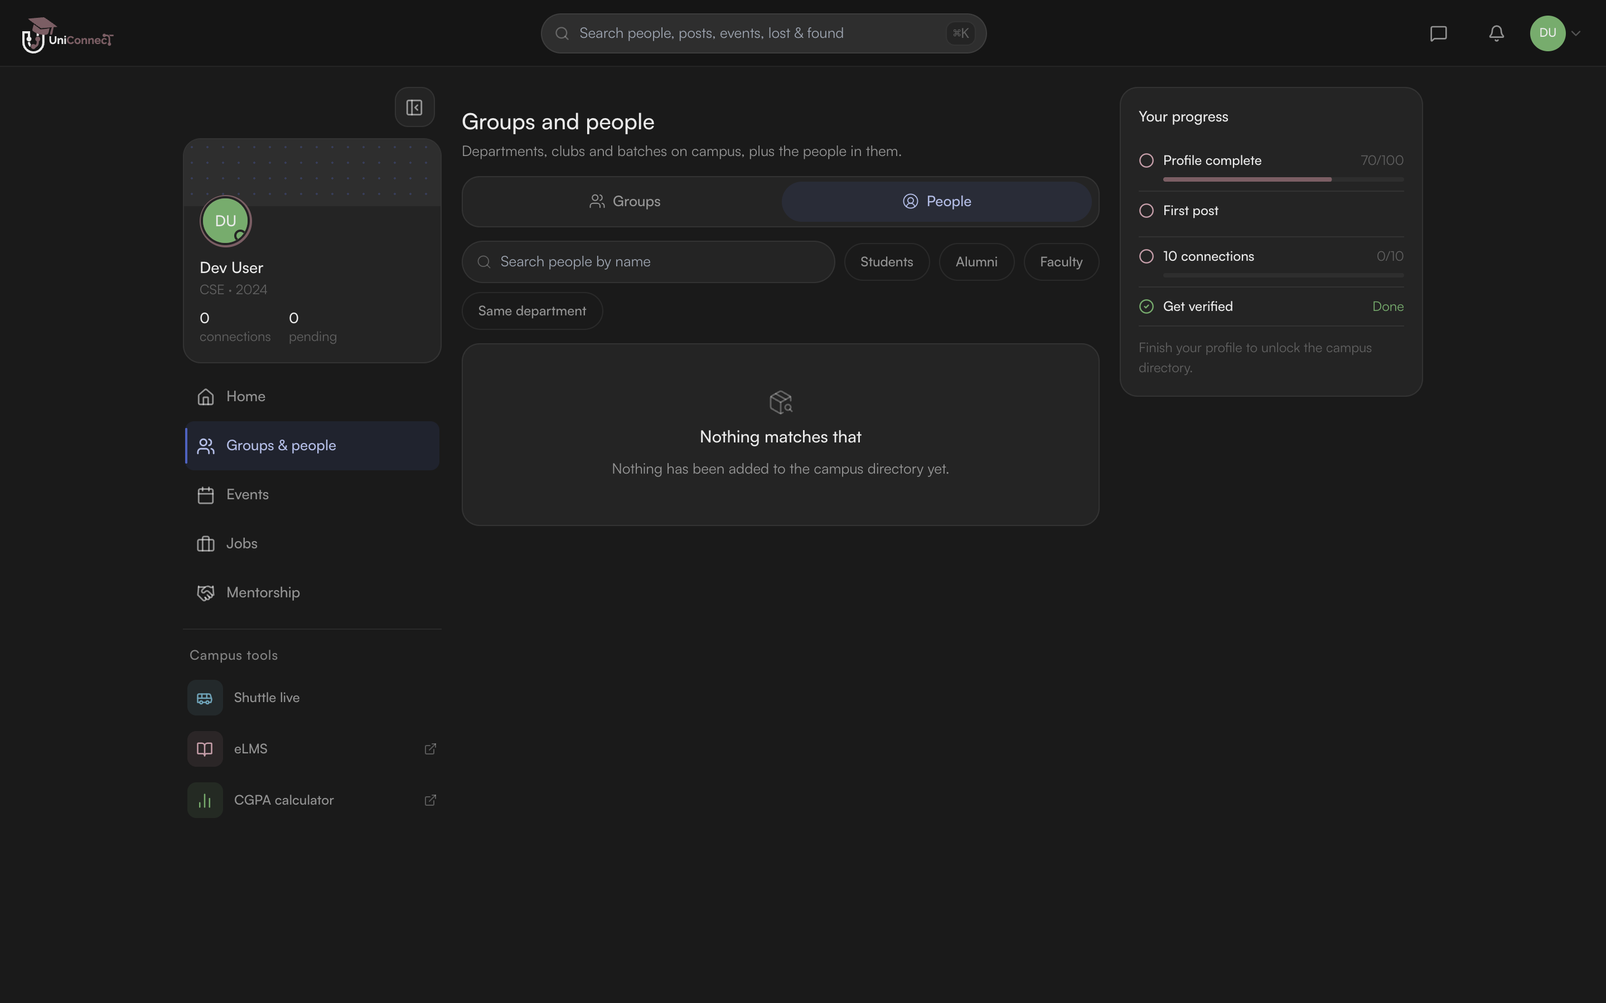
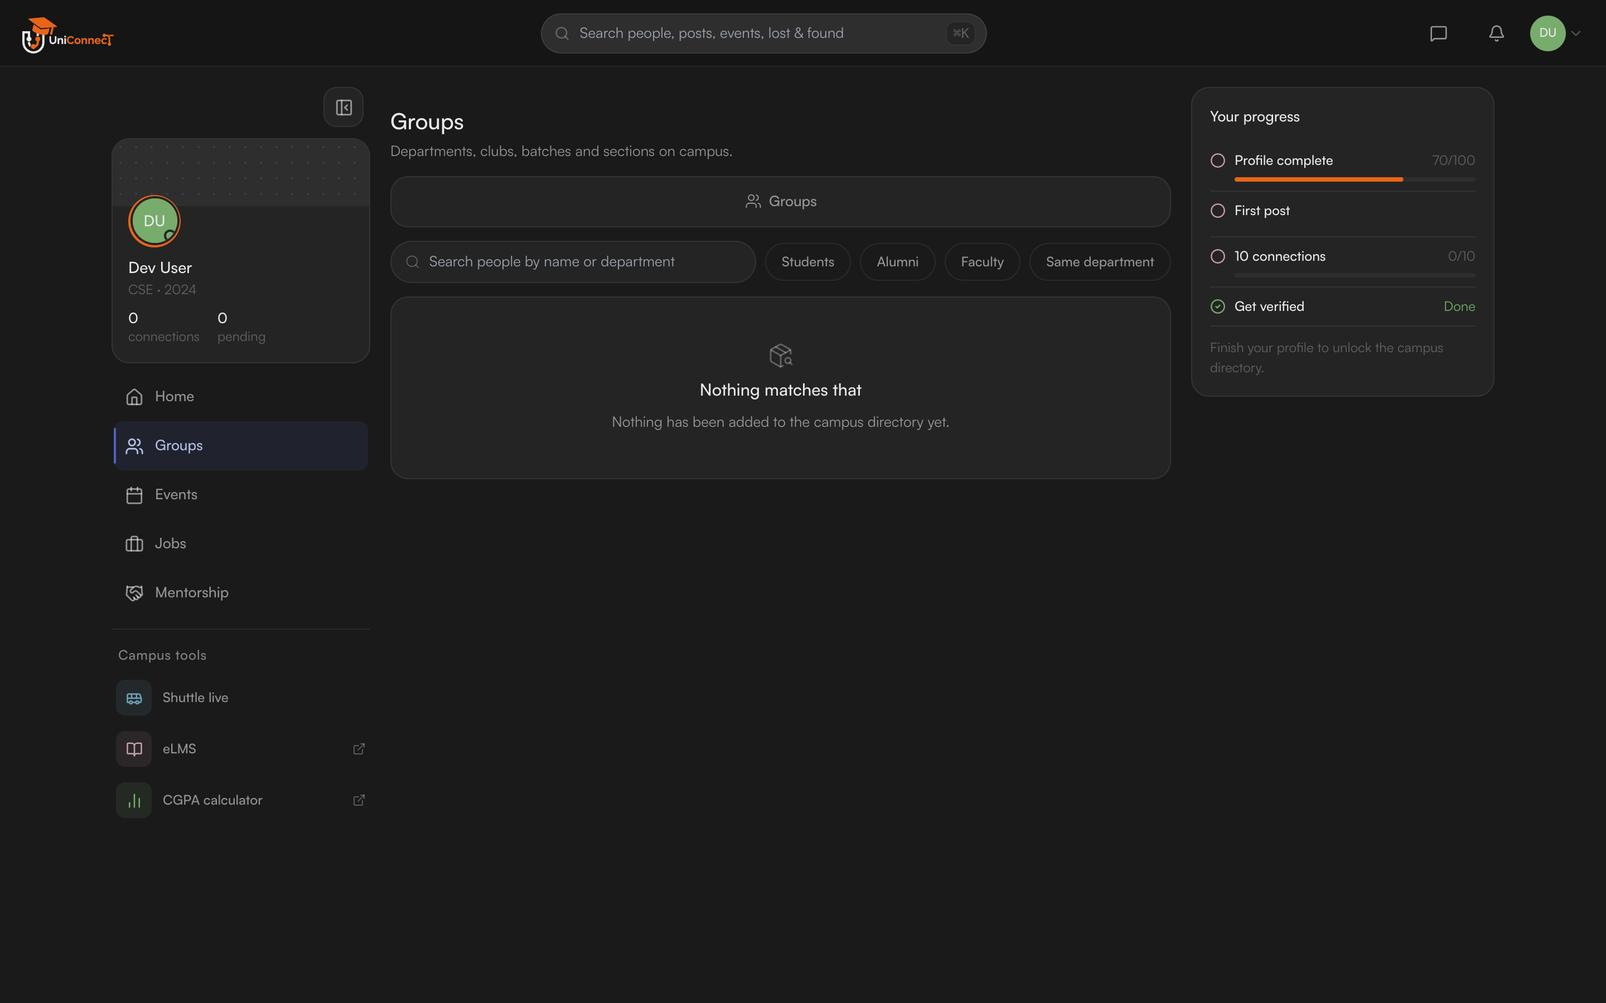
Fixed some unnecessary bugs

diff --git a/apps/web/src/pages/GroupsPage.tsx b/apps/web/src/pages/GroupsPage.tsx
@@ -1,7 +1,7 @@
 import { useEffect, useMemo, useRef, useState } from 'react'
 import { useSearchParams } from 'react-router-dom'
 import { useInfiniteQuery } from '@tanstack/react-query'
-import { PackageSearch, Plus, Search, UserCircle2, Users } from 'lucide-react'
+import { PackageSearch, Plus, Search, Users } from 'lucide-react'
 import type { LucideIcon } from 'lucide-react'
 import type { UserRole } from '@uniconnect/shared'
 import { api } from '@/lib/axios'
@@ -10,7 +10,7 @@ import type { Group, GroupType } from '@/features/groups'
 import { PeopleDirectory, type PeopleDirectoryFilters } from '@/features/connections'
 import { useAuthStore } from '@/stores/authStore'
 
-type Section = 'groups' | 'people' | 'sections'
+type Section = 'groups' | 'people'
 
 interface GroupsResponse {
   items: Group[]
@@ -66,31 +66,20 @@ const PEOPLE_FILTERS: PeopleFilter[] = [
 export default function GroupsPage() {
   const [searchParams, setSearchParams] = useSearchParams()
 
-  // Faculty teach sections, so academic groups are the unit of navigation for them and
-  // get their own tab — it is what the rail's "My sections" row points at. Nobody else
-  // sees it: academic groups are faculty-created, so the tab would be empty elsewhere.
-  const isFaculty = useAuthStore((s) => s.user?.role) === 'faculty'
-  const defaultSection: Section = isFaculty ? 'sections' : 'groups'
+  const defaultSection: Section = 'groups'
 
   // `University` is optional on `User` (not populated by the auth/me responses
   // yet) — falls back to generic campus copy rather than hardcoding a tenant name.
   const universityName = useAuthStore((s) => s.user?.university?.name)
   const subtitleTenant = universityName ? `at ${universityName}` : 'on campus'
 
-  // The rail row is "Groups & people", so connections fold in here as a section.
-  // `/connections` stays routable for deep links and for the avatar menu.
+  // The people directory has no tab of its own — the strip is Groups only — but it
+  // still answers `?section=people` so the "find people" links in the invite panel and
+  // the create-group modal keep landing on it. `/connections` stays routable too.
   const rawSection = searchParams.get('section')
-  const section: Section =
-    rawSection === 'people'
-      ? 'people'
-      : rawSection === 'sections' && isFaculty
-      ? 'sections'
-      : rawSection === 'groups'
-      ? 'groups'
-      : defaultSection
+  const section: Section = rawSection === 'people' ? 'people' : defaultSection
 
   const isPeople = section === 'people'
-  const isSections = section === 'sections'
 
   function setSection(next: Section) {
     const params = new URLSearchParams(searchParams)
@@ -134,9 +123,7 @@ export default function GroupsPage() {
 
   const sentinelRef = useRef<HTMLDivElement>(null)
 
-  // The sections view is the academic slice, so the type filter is fixed there rather
-  // than offered — a "Clubs" chip inside "My sections" would contradict the tab itself.
-  const requestType: GroupType | undefined = isSections ? 'academic' : groupFilter?.type
+  const requestType: GroupType | undefined = groupFilter?.type
 
   const { data, fetchNextPage, hasNextPage, isFetchingNextPage, isLoading } = useInfiniteQuery<GroupsResponse>({
     queryKey: ['groups', 'list', { type: requestType ?? 'all', search: debounced }],
@@ -236,9 +223,7 @@ export default function GroupsPage() {
   }
 
   const views: { key: Section; label: string; icon: LucideIcon; count?: number }[] = [
-    ...(isFaculty ? [{ key: 'sections' as Section, label: 'My sections', icon: Users }] : []),
     { key: 'groups', label: 'Groups', icon: Users, count: isPeople ? undefined : groupTotal },
-    { key: 'people', label: 'People', icon: UserCircle2 },
   ]
 
   const emptyState = (
@@ -254,10 +239,10 @@ export default function GroupsPage() {
     <div style={{ display: 'flex', flexDirection: 'column', gap: 12 }}>
       <header style={{ display: 'flex', flexDirection: 'column', gap: 4 }}>
         <h1 style={{ margin: 0, fontSize: 20, fontWeight: 500, color: 'var(--text-primary)', lineHeight: 1.3 }}>
-          Groups and people
+          Groups
         </h1>
         <p style={{ margin: 0, fontSize: 13, fontWeight: 400, color: 'var(--text-secondary)', lineHeight: 1.5 }}>
-          Departments, clubs and batches {subtitleTenant}, plus the people in them.
+          Departments, clubs, batches and sections {subtitleTenant}.
         </p>
       </header>
 
@@ -388,9 +373,7 @@ export default function GroupsPage() {
           />
         </div>
 
-        {/* Sections is already type-pinned to academic, so type chips there would lie. */}
-        {!isSections &&
-          activeFilters.map((f) => {
+        {activeFilters.map((f) => {
             const active = activeFilter?.label === f.label
             return (
               <button

diff --git a/apps/web/src/pages/sectionTabs.test.tsx b/apps/web/src/pages/sectionTabs.test.tsx
@@ -84,16 +84,16 @@ function renderPage(ui: React.ReactElement, route: string) {
 }
 
 describe('GroupsPage people section', () => {
-  it('shows groups by default and folds the people directory in behind a People tab', async () => {
-    const user = userEvent.setup()
+  it('offers a single Groups tab — the people directory has no tab of its own', () => {
     renderPage(<GroupsPage />, '/groups')
 
+    expect(screen.getByRole('button', { name: /^Groups/ })).toHaveAttribute('aria-current', 'page')
+    expect(screen.queryByRole('button', { name: 'People' })).not.toBeInTheDocument()
     expect(screen.queryByText('people directory')).not.toBeInTheDocument()
-
-    await user.click(screen.getByRole('button', { name: 'People' }))
-    expect(screen.getByText('people directory')).toBeInTheDocument()
   })
 
+  // The invite panel and create-group modal still link here, so the deep link must
+  // keep landing on the directory even though no tab leads to it.
   it('honours a deep link to the people section', () => {
     renderPage(<GroupsPage />, '/groups?section=people')
     expect(screen.getByText('people directory')).toBeInTheDocument()
@@ -108,8 +108,7 @@ describe('GroupsPage people section', () => {
     await user.click(screen.getByRole('button', { name: 'Clubs' }))
     expect(screen.getByRole('button', { name: 'Clubs' })).toHaveAttribute('aria-pressed', 'true')
 
-    await user.click(screen.getByRole('button', { name: 'People' }))
-    expect(screen.queryByRole('button', { name: 'Clubs' })).not.toBeInTheDocument()
+    renderPage(<GroupsPage />, '/groups?section=people')
     expect(screen.getByRole('button', { name: 'Alumni' })).toHaveAttribute('aria-pressed', 'false')
   })
 
@@ -173,47 +172,15 @@ describe('ExplorePage lost & found section', () => {
   })
 })
 
-describe('GroupsPage faculty sections view', () => {
-  it('lands faculty on My sections, since sections are their unit of navigation', async () => {
+describe('GroupsPage for faculty', () => {
+  // Faculty used to land on a separate "My sections" view; academic groups now sit in
+  // the one Groups list behind the "Sections" chip, so faculty gets the same page.
+  it('lands faculty on the same Groups view as everyone else', async () => {
     currentRole = 'faculty'
-    renderPage(<GroupsPage />, '/groups')
-
-    expect(await screen.findByRole('button', { name: 'My sections' })).toHaveAttribute(
-      'aria-current',
-      'page',
-    )
-  })
-
-  it('fetches only academic groups in the sections view', async () => {
-    currentRole = 'faculty'
-    renderPage(<GroupsPage />, '/groups')
-
-    await waitFor(() => expect(groupsGet).toHaveBeenCalled())
-    expect(requestedType()).toBe('academic')
-  })
-
-  it('hides the group-type chips there, which would contradict the tab', async () => {
-    currentRole = 'faculty'
-    renderPage(<GroupsPage />, '/groups')
-
-    await screen.findByRole('button', { name: 'My sections' })
-    expect(screen.queryByRole('button', { name: 'Clubs' })).not.toBeInTheDocument()
-  })
-
-  it('restores the type chips once faculty switches to all groups', async () => {
-    const user = userEvent.setup()
-    currentRole = 'faculty'
-    renderPage(<GroupsPage />, '/groups')
-
-    await user.click(await screen.findByRole('button', { name: /^Groups/ }))
-    expect(screen.getByRole('button', { name: 'Clubs' })).toBeInTheDocument()
-  })
-
-  it('gives no other role the sections tab, and ignores the param for them', async () => {
-    currentRole = 'student'
     renderPage(<GroupsPage />, '/groups?section=sections')
 
     expect(screen.queryByRole('button', { name: 'My sections' })).not.toBeInTheDocument()
+    expect(screen.getByRole('button', { name: 'Sections' })).toBeInTheDocument()
     await waitFor(() => expect(groupsGet).toHaveBeenCalled())
     expect(requestedType()).toBeNull()
   })

diff --git a/apps/web/src/components/leftSidebar.config.ts b/apps/web/src/components/leftSidebar.config.ts
@@ -327,7 +327,7 @@ export const RAILS: Record<UserRole, RoleRail> = {
   student: {
     fixed: [
       { key: 'home', label: 'Home', icon: Home, to: PATHS.FEED },
-      { key: 'groups', label: 'Groups & people', icon: Users, to: PATHS.GROUPS },
+      { key: 'groups', label: 'Groups', icon: Users, to: PATHS.GROUPS },
       { key: 'events', label: 'Events', icon: Calendar, to: PATHS.EVENTS },
       { key: 'jobs', label: 'Jobs', icon: Briefcase, to: PATHS.JOBS },
       { key: 'mentorship', label: 'Mentorship', icon: Handshake, to: PATHS.MENTORSHIP },
@@ -343,7 +343,7 @@ export const RAILS: Record<UserRole, RoleRail> = {
   alumni: {
     fixed: [
       { key: 'home', label: 'Home', icon: Home, to: PATHS.FEED },
-      { key: 'groups', label: 'Groups & people', icon: Users, to: PATHS.GROUPS },
+      { key: 'groups', label: 'Groups', icon: Users, to: PATHS.GROUPS },
       { key: 'events', label: 'Events', icon: Calendar, to: PATHS.EVENTS },
       { key: 'postings', label: 'My postings', icon: Briefcase, to: PATHS.JOBS },
       { key: 'mentees', label: 'Mentees', icon: Handshake, to: PATHS.MENTORSHIP },
@@ -360,19 +360,20 @@ export const RAILS: Record<UserRole, RoleRail> = {
   faculty: {
     fixed: [
       { key: 'home', label: 'Home', icon: Home, to: PATHS.FEED },
-      // Both land on /groups; the section param is what makes them different rows.
-      // `isActive` is query-aware, so exactly one of the two lights up.
-      { key: 'sections', label: 'My sections', icon: GraduationCap, to: `${PATHS.GROUPS}?section=sections` },
-      { key: 'groups', label: 'Groups & people', icon: Users, to: `${PATHS.GROUPS}?section=groups` },
+      // Explore is a fixed row here rather than in `secondary`: with no sections view
+      // there is a free slot, and faculty reach tags and lost & found from the rail.
+      { key: 'explore', label: 'Explore', icon: Compass, to: PATHS.EXPLORE },
+      { key: 'groups', label: 'Groups', icon: Users, to: PATHS.GROUPS },
       { key: 'events', label: 'Events', icon: Calendar, to: PATHS.EVENTS },
       { key: 'announcements', label: 'Announcements', icon: Newspaper, to: PATHS.NEWS },
     ],
     contextual: [draftsRule('Drafts')],
-    secondary: [...MEMBER_SECONDARY, JOBS_ROW],
+    // Explore is a fixed row above, so it leaves `secondary` — a row must have one home.
+    secondary: [...MEMBER_SECONDARY.filter((row) => row.key !== 'explore'), JOBS_ROW],
     tools: [
       { key: 'elms', label: 'eLMS', icon: BookOpen, iconColor: 'var(--uc-orange-l)', iconBg: 'var(--uc-orange-bg)', externalUrl: 'https://elms.uiu.ac.bd' },
       // No third tile: "Attendance" named a module that does not exist, and the gradebook
-      // it would honestly be renamed to is reached through the `sections` row above —
+      // it would honestly be renamed to is reached through the "Sections" chip on Groups —
       // a tile pointing there would just be that row under a second name.
       { key: 'shuttle', label: 'Shuttle', icon: Bus, iconColor: 'var(--uc-cyan)', iconBg: 'var(--uc-cyan-bg)', to: PATHS.SHUTTLE },
     ],

diff --git a/apps/api/src/__tests__/academic/gradebook-roster.test.ts b/apps/api/src/__tests__/academic/gradebook-roster.test.ts
@@ -1,0 +1,61 @@
+import request from 'supertest'
+import { describe, it, expect, beforeAll } from 'vitest'
+
+import { app, DOMAIN, loginAs, CREDENTIALS } from '../setup'
+
+const DRAFT = {
+  courseCode: 'CSE 3422',
+  courseTitle: 'Software Engineering Laboratory',
+  section: 'B',
+  gradingScale: 'uiu',
+  assessments: [
+    { categoryName: 'Class tests', weightPercent: 100, fullMarks: 20, totalGiven: 1, bestNCounted: 1, displayOrder: 1 },
+  ],
+  topics: [{ weekNumber: 1, title: 'Introduction to SE' }],
+  assignments: [],
+}
+
+describe('gradebook roster', () => {
+  let faculty: { accessToken: string }
+  let student: { accessToken: string }
+  let facultyId: string
+  let studentId: string
+  let groupId: string
+  const auth = (token: string) => ({ Authorization: `Bearer ${token}`, 'x-university-domain': DOMAIN })
+
+  beforeAll(async () => {
+    faculty = await loginAs(CREDENTIALS.faculty.email, CREDENTIALS.faculty.password)
+    student = await loginAs(CREDENTIALS.student.email, CREDENTIALS.student.password)
+    facultyId = (await request(app).get('/api/v1/users/me').set(auth(faculty.accessToken))).body.data.id
+    studentId = (await request(app).get('/api/v1/users/me').set(auth(student.accessToken))).body.data.id
+
+    const created = await request(app)
+      .post('/api/v1/groups/from-outline')
+      .set(auth(faculty.accessToken))
+      .send({ name: 'CSE 3422 Section B (gradebook roster)', section: 'B', draft: DRAFT, is_private: false })
+    expect(created.status).toBe(201)
+    groupId = created.body.data.id
+
+    const joined = await request(app).post(`/api/v1/groups/${groupId}/join`).set(auth(student.accessToken)).send({})
+    expect(joined.status).toBe(201)
+  })
+
+  it('GET /groups/:id/gradebook lists only student members — never the owning faculty', async () => {
+    const res = await request(app).get(`/api/v1/groups/${groupId}/gradebook`).set(auth(faculty.accessToken))
+    expect(res.status).toBe(200)
+    const ids = (res.body.data.rows as { student: { id: string } }[]).map((r) => r.student.id)
+    expect(ids).toContain(studentId)
+    expect(ids).not.toContain(facultyId)
+  })
+
+  it('PUT /groups/:id/gradebook/entries refuses to grade a non-student member', async () => {
+    const assessmentId = (
+      await request(app).get(`/api/v1/groups/${groupId}/course-outline`).set(auth(faculty.accessToken))
+    ).body.data.assessments[0].id
+    const res = await request(app)
+      .put(`/api/v1/groups/${groupId}/gradebook/entries`)
+      .set(auth(faculty.accessToken))
+      .send({ entries: [{ studentId: facultyId, assessmentId, instanceNumber: 1, marksObtained: 10 }] })
+    expect(res.status).toBe(400)
+  })
+})

diff --git a/apps/api/src/modules/academic/gradebook.service.ts b/apps/api/src/modules/academic/gradebook.service.ts
@@ -1,6 +1,6 @@
 import { db } from '../../config/db'
 import type { AuthContext } from '../../types/auth'
-import { notFound } from '../../utils/errors'
+import { badRequest, notFound } from '../../utils/errors'
 import { assertGroupAdminAccess, assertMemberAccess } from '../groups/service'
 import { courseOutlineService, type CourseOutline } from './course-outline.service'
 
@@ -60,6 +60,14 @@ function resolveScale(outline: CourseOutline): GradeScaleEntry[] {
     return (outline.customScaleJson as GradeScaleEntry[] | null) ?? UIU_SCALE
   }
   return UIU_SCALE
+}
+
+// The gradebook is a roster of learners: the owning faculty, TAs and any
+// admin who joined are group members too, but they are never graded.
+function studentMembersQuery(groupId: string) {
+  return db('group_members')
+    .join('users', 'users.id', 'group_members.user_id')
+    .where({ 'group_members.group_id': groupId, 'users.role': 'student' })
 }
 
 function buildColumns(outline: CourseOutline) {
@@ -144,10 +152,8 @@ export const gradebookService = {
     const outline = await courseOutlineService.getOutline(context, groupId)
     if (!outline) throw notFound('Course outline must be created before viewing the gradebook')
 
-    const members = await db('group_members')
-      .join('users', 'users.id', 'group_members.user_id')
+    const members = await studentMembersQuery(groupId)
       .join('profiles', 'profiles.user_id', 'users.id')
-      .where({ 'group_members.group_id': groupId })
       .select('users.id', 'profiles.full_name', 'profiles.avatar_url', 'profiles.department')
 
     const entries = await db<GradebookEntryRow>('gradebook_entries').where({ group_id: groupId })
@@ -191,6 +197,12 @@ export const gradebookService = {
     }>,
   ) {
     await assertGroupAdminAccess(context, groupId)
+    const studentIds = new Set(
+      (await studentMembersQuery(groupId).select('users.id')).map((row: { id: string }) => row.id),
+    )
+    const outsider = entries.find((entry) => !studentIds.has(entry.studentId))
+    if (outsider) throw badRequest('Only student members of this group can be graded', 'NOT_A_STUDENT_MEMBER')
+
     await db.transaction(async (trx) => {
       for (const entry of entries) {
         await trx('gradebook_entries')

diff --git a/apps/web/src/styles/tokens.css b/apps/web/src/styles/tokens.css
@@ -19,7 +19,7 @@
   --uc-indigo-bdr:    rgba(78, 98, 191, 0.30);
 
   /* ── Brand — self identity (study mauve) ──────────── */
-  --uc-orange:        #7B5E64;
+  --uc-orange:        #E86518;
   --uc-orange-l:      #C79FAA;
   --uc-orange-bg:     rgba(123, 94, 100, 0.18);
   --uc-orange-bdr:    rgba(123, 94, 100, 0.40);
@@ -28,7 +28,7 @@
 
   /* ── Tenant accent — per-university identity slot.
      Defaults to study mauve; later set at runtime from university_settings. */
-  --tenant-accent:     #7B5E64;
+  --tenant-accent:     #E86518;
   --tenant-accent-l:   #C79FAA;
   --tenant-accent-bg:  rgba(123, 94, 100, 0.18);
   --tenant-accent-bdr: rgba(123, 94, 100, 0.40);

diff --git a/apps/web/src/components/LeftSidebar.test.tsx b/apps/web/src/components/LeftSidebar.test.tsx
@@ -130,7 +130,7 @@ describe('LeftSidebar', () => {
   it('keeps the active route marked with aria-current page', () => {
     renderSidebar(false)
     expect(screen.getByRole('button', { name: 'Home' })).toHaveAttribute('aria-current', 'page')
-    expect(screen.getByRole('button', { name: 'Groups & people' })).not.toHaveAttribute('aria-current')
+    expect(screen.getByRole('button', { name: 'Groups' })).not.toHaveAttribute('aria-current')
   })
 
   it('renders collapsed nav as accessible icon buttons without visible labels', () => {

diff --git a/apps/web/src/pages/groupFilters.test.tsx b/apps/web/src/pages/groupFilters.test.tsx
@@ -81,7 +81,7 @@ describe('group type coverage', () => {
 describe('directory copy', () => {
   it('names the tenant in the subtitle when the auth user carries one', () => {
     renderPage()
-    expect(screen.getByText('Departments, clubs and batches at UIU, plus the people in them.')).toBeInTheDocument()
+    expect(screen.getByText('Departments, clubs, batches and sections at UIU.')).toBeInTheDocument()
   })
 
   it('placeholders the groups search box distinctly from the people one', () => {

diff --git a/apps/web/src/styles/index.css b/apps/web/src/styles/index.css
@@ -751,7 +751,7 @@ select:focus-visible {
     align-items: stretch;
   }
 
-  /* Five slots share the viewport, so a label like "Groups & people" or
+  /* Five slots share the viewport, so a label like "Announcements" or
      "Members & invites" gets ~78px at 390px wide. Clamp rather than wrap — a
      second line would push the bar's height around per role. */
   .mobile-nav-label {

diff --git a/CLAUDE.md b/CLAUDE.md
@@ -268,9 +268,9 @@ Notable feature internals:
 - **Each feature gets one home per zone — left rail, top bar, right rail — and the more capable control wins.** A right-rail widget must address something the rail cannot: a *specific* event, person or tag (`/events/:id`, `/profile/:id`, `?q=#tag`). A widget whose every row leads back to a page the rail already owns is that row a second time — that is why `mentee-requests` and `platform-today` were deleted (every destination was a fixed row, and their counts came from the very query the contextual zone already reads). `RightSidebar.test.tsx` asserts the surviving set. For the same reason `SectionHeader` takes only a `title`: the "See all" button linked out to `/events` and `/explore`, both left-rail rows, so passing one is now a compile error rather than a rule to remember. Likewise, the avatar menu filters out `TOPNAV_ICON_ROUTES` (Messages, Notifications): each has a badged icon with a peek popover inches away in the same bar. They stay in `secondary` regardless — the mobile More sheet renders that list verbatim and mobile hides both icons, so removing them from the manifest would strand them on a phone.
 - **The four member roles carry the same number of widgets** (`roleShell.test.ts` enforces it); they differ in payload, not in rail length, so one role never looks under-served. `profile-progress` is the shared filler — `/users/me/progress` is own-profile so every role can answer it, and it retires itself at 100%.
 - **The desktop rail and the mobile bar must agree on which row is lit and how it looks.** Both call `isRailRowActive()` from `leftSidebar.config.ts` (one matcher, not a copy each) and both mark the active row with `--uc-indigo*` — the interactive colour. `--uc-orange*` stays reserved for *your own activity* per the design rule.
-- Sections that absorbed a former rail row, deep-linkable with the old route still valid: `/explore?section=lost-found`, `/groups?section=people`, `/feed?tab=` (`FEED_TABS`).
-- **Pages whose default view is role-dependent put the role's own default *out* of the URL** and write the param only for the non-default, so a shared link stays clean: `/jobs` is `view=mine` for alumni and `view=browse` for everyone else; `/groups` is `section=sections` for faculty and `section=groups` for everyone else. Both read the param back defensively — a role that cannot use a view (a student on `view=mine`, a non-faculty on `section=sections`) falls back to its default rather than rendering an empty or forbidden panel.
-- Faculty's two `/groups` rail rows differ only by query (`?section=sections` vs `?section=groups`); the sections view pins `type=academic` and hides the group-type filter.
+- Sections that absorbed a former rail row, deep-linkable with the old route still valid: `/explore?section=lost-found`, `/groups?section=people` (deep-link only — the Groups page has a single "Groups" tab, and the people directory is reached from the invite panel / create-group modal links), `/feed?tab=` (`FEED_TABS`).
+- **Pages whose default view is role-dependent put the role's own default *out* of the URL** and write the param only for the non-default, so a shared link stays clean: `/jobs` is `view=mine` for alumni and `view=browse` for everyone else. Read the param back defensively — a role that cannot use a view (a student on `view=mine`) falls back to its default rather than rendering an empty or forbidden panel.
+- There is no separate faculty "sections" view any more: academic groups sit in the one Groups list behind the "Sections" type chip. Faculty's rail has Explore as a fixed row (not in `secondary`) in the slot that view used to take.
 - **The profile card's two numbers are manifest-driven, and the role-scoped ones are computed server-side only for the role they describe.** `countRoleStats()` in `users/service.ts` fills `mentees` (alumni), `sections`/`students` (faculty) and `members`/`groups` (admin); they are **optional** on `publicUserProfileSchema.stats`, so absent means "not that role" while `0` means a real zero. Never add a stat to a role the API does not compute it for — `roleShell.test.ts` fails on that, since it would render a silent zero.
 - `pendingReceived` is returned as `0` for anyone but the profile owner, so it is flagged `ownerOnly` and `statsFor()` swaps in `PUBLIC_STAT` (`posts`) for visitors. Any future owner-only count needs the same flag, or a visitor reads the placeholder zero as real.
 - `groups` has **no** soft-delete column — do not add `is_deleted` to a groups query. `users` and `mentorship_requests` do have it.
